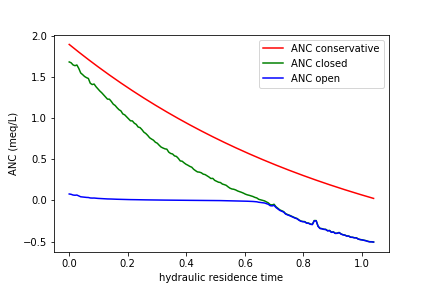
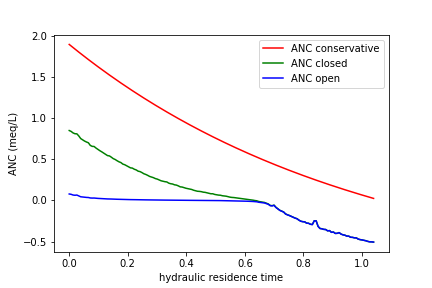
plotsss

diff --git a/Lab3-ANC/group1_Acid_Rain_and_ANC_report.md b/Lab3-ANC/group1_Acid_Rain_and_ANC_report.md
@@ -33,9 +33,7 @@ The results of these calculations were plotted versus hydraulic residence time s
 
 Figure 2. Plot of concentration calculated ANC over time from conservative, closed, and open calculations.
 
-**Was the lake better modeled as in equilibrium with atmospheric CO2 or as not exchanging with atmospheric CO2?**  
-
-The lake is better modeled as not exchanging with atmospheric CO2, because the closed model is much closer to the conservative model.
+The lake is better modeled with the assumption that CO2 is not exchanging with the atmosphere, because the closed model is much closer to the conservative model. The conservative model is very good, because it assumes very little, just that ANC is conservative which is a very logical assumption. Therefore, the more closely a model aligns with the conservative model, the better, so the closed model does pretty well.
 
 In the second experiment, we added about half as much NaHCO3 as we added in the first experiment. Therefore, it had a lower ANC and so the lake was destroyed and unlivable in a shorter amount of time. The curve of the pH over time is the same in the first and second experiment, which can be seen in a comparison of Figure 1 and Figure 3. The ANC worked the same way, it was just less, so less acid could be added from the rain before the pH fell drastically. Again, a comparison of different methods of calculating ANC was created, see Figure 4.
 ![pHgraph2](https://github.com/rosiekrasnoff/CEE4530/blob/master/Lab2-Acid%20Rain/lab2_pHgraph2.png?raw=true)
@@ -53,16 +51,19 @@ Some complications of attempting to remediate a lake with CaCO3 include the dens
 Using the measured data from the t=0 titration, the pH titration curve was plotted as a function of titrant volume that had been added (Figure 5). The equivalent volume of titrant is labeled with a vertical blue line. If the titration curve was complete, there would be three regions of the graph where pH changes slowly. In two of these regions, the dominant reaction is occurring. In a region that occurs at a higher pH than we saw, the reaction $ HCO_3^- \Rightarrow CO_3^2- + H^+ $ would be occurring first. Because we started at pH 8, we didn't observe that so it isn't in Figure 5. In the second region, the reaction is $HCO_3^- + H^+ \Rightarrow H_2CO_3$. In the third region, there is no reaction, because added hydrogen ions contribute directly to change in pH.
 
 ![part1graph](https://github.com/rosiekrasnoff/CEE4530/blob/master/Lab3-ANC/titrationcurve.png?raw=true)
+
 Figure 5. Titration curve of the t=0 sample with 0.05 N HCl.
 
 Next, using linear regression on the linear region of the data from the titration curve of the t=0 sample, the Gran plot was plotted (Figure 6). Comparing the equivalent volume that we calculated using linear regression with that of ProCoDa, we found that both were essentially identical at 1.433219 mL.
 
 ![part2graph](https://github.com/rosiekrasnoff/CEE4530/blob/master/Lab3-ANC/Granplot.png?raw=true)
+
 Figure 6. Gran titration of a sample.
 
 Finally, a comparison with the 3 ANC models from the Acid Rain portion above was made to the measure ANC from the titration data (Figure 7). A visual assessment suggests that the conservative model is the most accurate in comparison to the measured ANC data points. Although not identical, the measured ANC agrees pretty well with the conservative ANC model.
 
 ![part3graph](https://github.com/rosiekrasnoff/CEE4530/blob/master/Lab3-ANC/ANC_comp_data_plot.png?raw=true)
+
 Figure 7. Plot of conservative, closed, open, and measured ANC concentration over time.
 
 ### Discussion
@@ -136,7 +137,7 @@ ANC_expected=epa.ANC_open(3)*(1-(np.exp(-hrt)))+(ANC_0*(np.exp(-hrt)))
 #plt.show()
 
 #Number 3
-carbs=ANC_0
+carbs=(ANC_0*(np.exp(-hrt)))
 ANC_closed=epa.ANC_closed(lakepH,carbs)
 #fig, ax = plt.subplots()
 #ax.plot(hrt,ANC_closed,'g')
@@ -161,7 +162,7 @@ ax.plot(hrt, ANC_expected.to(u.meq/u.L), 'r', hrt, ANC_closed.to(u.meq/u.L), 'g'
 plt.xlabel('hydraulic residence time')
 plt.ylabel('ANC (meq/L)')
 plt.legend(['ANC conservative', 'ANC closed', 'ANC open'])
-#plt.savefig('/Users/Rosie/github/CEE4530/Lab2-Acid Rain/lab2_ANC_comp.png')
+plt.savefig('/Users/Rosie/github/CEE4530/Lab2-Acid Rain/lab2_ANC_comp.png')
 plt.show()
 
 #Number 5
@@ -190,15 +191,15 @@ plt.show()
 
 #Number 5.2
 #ANC_expected=[ANC_out−ANC_in⋅(1−e^−t/θ)]e^t/θ
-#to find ANCo: added .317 g of NaH2CO3
+#to find ANC_0: added .317 g of NaH2CO3
 mass_NA_2=.317*u.g
 
 ANC_02=mass_NA_2/MM_NaH2CO3/Vol
 ANC_expected2=epa.ANC_open(3)*(1-(np.exp(-hrt2)))+(ANC_0*(np.exp(-hrt2)))
 
 #Number 5.3
-carbs2=ANC_02
-ANC_closed2=epa.ANC_closed(lakepH2,carbs)
+carbs2=(ANC_02*(np.exp(-hrt2)))
+ANC_closed2=epa.ANC_closed(lakepH2,carbs2)
 
 #Number 5.4
 #ANC_effluent=(PCO2*KH)/α0*(α1+2α2)+Kw/[H+]−[H+]
@@ -211,7 +212,7 @@ ax.plot(hrt2, ANC_expected2.to(u.meq/u.L), 'r', hrt2, ANC_closed2.to(u.meq/u.L),
 plt.xlabel('hydraulic residence time')
 plt.ylabel('ANC (meq/L)')
 plt.legend(['ANC conservative', 'ANC closed', 'ANC open'])
-#plt.savefig('/Users/Rosie/github/CEE4530/Lab2-Acid Rain/lab2_ANC_comp2.png')
+plt.savefig('/Users/Rosie/github/CEE4530/Lab2-Acid Rain/lab2_ANC_comp2.png')
 plt.show()
 
 ##ANC LAB PORTION
